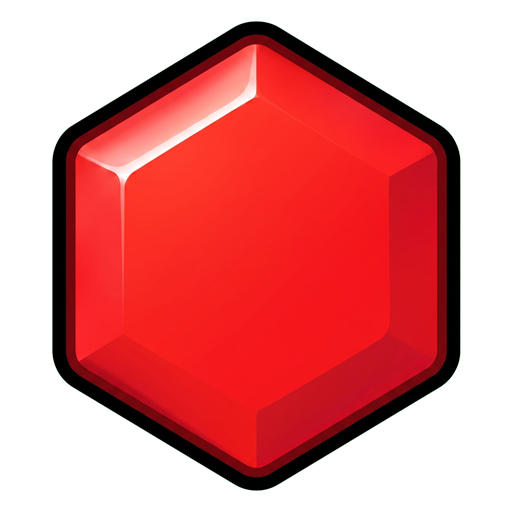
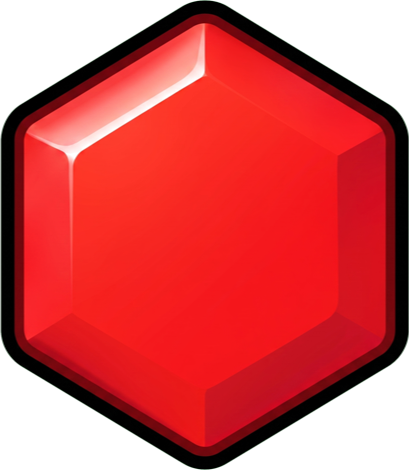
fix: 판을 헛간 우리 안으로, 타일 사이 빈틈 제거
판이 배경의 나무 우리 밖으로 삐져나가 있었고 타일 사이가 벌어져 있었다.
원인이 둘이라 따로 고친다.

**판 위치** — geom.ts는 아트가 오기 전 값(좌우 여백 각 10px, 폭 360)을 쓰고
있었다. 도착한 배경의 실제 플레이 영역은 중앙 컬럼 전체가 아니라 헛간 우리
안쪽이고, 직사각형도 아니다 — 아래로 갈수록 벌어지는 사다리꼴이다.
디자이너가 넘긴 꼭짓점(1920×1080 기준 LT/RT/LB/RB)을 논리 좌표로 환산해
PEN에 박고, 판·셀 크기·반사벽을 전부 여기서 파생시킨다.

엔진 반사벽이 수직선이라(shot.ts boardBounds) 판은 직사각형이어야 하므로
가장 좁은 **상단** 폭(279)에 맞춘다. 타일이 가장 빽빽한 자리가 상단이다.
격자는 11×16 그대로라 스테이지 JSON은 건드리지 않는다 — 셀만 31.3 → 24.1로
작아진다.

발사대 y는 격자에서 파생시키지 않고 상수로 뺀다. 파생값이라 판을 줄이자
붉은말이 화면 한가운데로 따라 올라왔다 — 말이 서는 자리는 배경이 정한다.

**타일 빈틈** — 아트가 512×512 정사각 캔버스에 409×470 육각이 놓인 형태였다.
makeTileView는 fitContain에 캔버스 크기를 넘기므로 육각이 칸의 79.9%만
채웠고, 칸 간격의 20%가 빈틈으로 보였다. 코드에 보정 상수를 넣는 대신
캔버스를 육각 바운딩 박스로 잘랐다(무손실, 파일도 10% 작아졌다).
여백 있는 파일이 다시 올라오면 tileArtSize.test.ts가 잡는다.

Claude-Session: https://claude.ai/code/session_01619WP9mPmfkjxBMrWH4Egn

diff --git a/src/ui/hex/geom.ts b/src/ui/hex/geom.ts
@@ -4,15 +4,48 @@ import { toPixel } from "../../engine/hex/coords";
 import type { Axial } from "../../engine/hex/types";
 import type { BoardGeom } from "../../engine/hex/shot";
 
-/** 최종 아트의 나무 프레임 안쪽까지의 여백(한쪽). 판은 이 안에서만 논다.
- *  프레임을 조금 넓히거나 좁히면 여기만 고치면 되고, 육각 크기는 자동으로 따라온다. */
-export const FIELD_INSET = 10;
+/** 중앙 콘텐츠 컬럼의 논리 크기. 정확히 9:16이다.
+ *  전체 화면은 16:9이고 좌우에 헛간 패널이 붙지만, 게임은 이 컬럼 안에서만 논다. */
+export const CENTER_W = 450;
+export const CENTER_H = 800;
+
+/**
+ * 헛간 우리 안쪽 — 실제로 플레이할 수 있는 흙바닥.
+ *
+ * **직사각형이 아니라 아래로 갈수록 벌어지는 사다리꼴이다.** 디자이너가 최종
+ * 1920×1080 화면 기준으로 넘긴 꼭짓점을 논리 좌표로 환산한 값이다:
+ *
+ *   LT(778,132) RT(1155,132) LB(745,753) RB(1178,753)
+ *
+ * 환산은 main.ts의 화면 맞춤 규칙을 따른다 — 논리 높이는 800 고정이고 콘텐츠
+ * 450 박스가 가로 중앙에 놓이므로, 1920×1080에서 배율 s=1.35, 컬럼 좌단은
+ * 화면 x=656.1이다. 즉 `논리 = (화면x − 656.1) / 1.35`.
+ *
+ * 이 값을 다시 계산해야 할 일이 생기면 화면 해상도가 아니라 **위 네 점**을 고친다.
+ */
+export const PEN = {
+  lt: { x: 90.3, y: 97.8 },
+  rt: { x: 369.6, y: 97.8 },
+  lb: { x: 65.9, y: 557.8 },
+  rb: { x: 386.6, y: 557.8 },
+} as const;
+
+/** 주어진 높이에서 우리의 좌우 안쪽 x. 사다리꼴 변을 선형 보간한다.
+ *  판 바깥으로 나가면 안 되는 것(붉은말·구출 연출·낙하 타일)이 이 값을 쓴다. */
+export function penEdges(y: number): { left: number; right: number } {
+  const t = (y - PEN.lt.y) / (PEN.lb.y - PEN.lt.y);
+  return {
+    left: PEN.lt.x + (PEN.lb.x - PEN.lt.x) * t,
+    right: PEN.rt.x + (PEN.rb.x - PEN.rt.x) * t,
+  };
+}
 
 /** 우측 HUD 레일(NEXT·부스터)이 차지하는 폭. 판은 이 자리를 침범하지 않는다 —
  *  겹치면 그 칸에 붙은 타일이 HUD 뒤로 숨으면서도 발사를 막고 합체에는 참여한다. */
 export const RAIL_W = 56;
 export const RAIL_MARGIN = 12;
-const RAIL_RESERVE = RAIL_W + RAIL_MARGIN * 2; // 80
+/** 레일 왼쪽 경계. uiLayout의 nextPanel 슬롯(x=382)과 같은 자리다. */
+export const RAIL_LEFT = CENTER_W - RAIL_W - RAIL_MARGIN;
 
 // 케이지가 반지름 1의 육각 덩어리(7칸)를 차지하고, 그 둘레(반지름 2, 12칸)를
 // 1칸짜리 타일이 감싼다. 그러려면 케이지 하나가 가로 3열·세로 3행을 먹으므로
@@ -20,30 +53,38 @@ const RAIL_RESERVE = RAIL_W + RAIL_MARGIN * 2; // 80
 export const COLS = 11;
 export const ROWS = 16;
 
-/** 중앙 콘텐츠 컬럼의 논리 크기. 정확히 9:16이다.
- *  전체 화면은 16:9이고 좌우에 헛간 패널이 붙지만, 게임은 이 컬럼 안에서만 논다. */
-export const CENTER_W = 450;
-export const CENTER_H = 800;
+/** 판 상단. 우리 상단(97.8) 바로 아래에 붙인다. */
+export const FIELD_TOP = 98;
 
-/** 판 폭 = 컬럼 − 좌측 여백 − 우측 레일 예약분 */
-const FIELD_W = CENTER_W - FIELD_INSET - RAIL_RESERVE; // 360
+/**
+ * 판의 가로 위치와 폭.
+ *
+ * **엔진의 반사벽은 수직선이다**(shot.ts `boardBounds`). 판을 사다리꼴로 만들 수
+ * 없으므로 직사각형을 사다리꼴 안에 넣어야 하고, 그러려면 **가장 좁은 상단 폭**에
+ * 맞춰야 한다 — 그리고 타일이 가장 빽빽하게 깔리는 자리가 바로 거기다.
+ * 우리 상단 폭이 279.3이므로 여기서 여유 2를 뺀 277을 쓰고, 상단 중심선에 맞춘다.
+ *
+ * 아래로 갈수록 우리가 벌어지므로 아래쪽 행은 저절로 여유가 생긴다.
+ */
+export const FIELD_W = 277;
+export const FIELD_X = (PEN.lt.x + PEN.rt.x) / 2 - FIELD_W / 2; // ≈ 91.45
 
 /** pointy-top 스태거 격자는 홀수 행이 반 칸 밀리므로 실제 폭이 COLS + 0.5칸이다.
- *  COLS로 나누면 마지막 홀수 행이 판 밖으로 넘치고 반사벽도 화면 밖에 놓인다. */
-export const CELL_W = FIELD_W / (COLS + 0.5); // ≈ 48.00
+ *  COLS로 나누면 마지막 홀수 행이 판 밖으로 넘치고 반사벽도 우리 밖에 놓인다. */
+export const CELL_W = FIELD_W / (COLS + 0.5); // ≈ 24.09
 
 /** 육각 반지름은 셀 폭에서 역산한다. 셀 폭 = √3 × 반지름. */
-export const HEX_SIZE = CELL_W / Math.sqrt(3); // ≈ 27.71
+export const HEX_SIZE = CELL_W / Math.sqrt(3); // ≈ 13.91
 
 /** 행 간격. pointy-top 육각은 1.5 × 반지름씩 내려간다. */
-export const ROW_H = HEX_SIZE * 1.5; // ≈ 41.57
+export const ROW_H = HEX_SIZE * 1.5; // ≈ 20.86
 
 export const BOARD: BoardGeom = { size: HEX_SIZE, cols: COLS, rows: ROWS };
 
-/** 셀 (0,0) 중심의 논리 좌표. 좌우 여백이 정확히 FIELD_INSET이 되도록 잡는다. */
+/** 셀 (0,0) 중심의 논리 좌표. 판 좌상단 모서리가 (FIELD_X, FIELD_TOP)에 오도록 잡는다. */
 export const ORIGIN = {
-  x: FIELD_INSET + CELL_W / 2,
-  y: 150, // 상단 HUD(스테이지 바) 아래
+  x: FIELD_X + CELL_W / 2,
+  y: FIELD_TOP + HEX_SIZE,
 };
 
 export function cellToScreen(a: Axial): { x: number; y: number } {
@@ -51,9 +92,16 @@ export function cellToScreen(a: Axial): { x: number; y: number } {
   return { x: ORIGIN.x + p.x, y: ORIGIN.y + p.y };
 }
 
-/** 발사 지점 — 판 하단 중앙. 붉은말이 여기서 타일을 던진다. */
+/** 발사대 y — 우리 아래쪽 문간. 붉은말이 여기 서서 위를 올려다본다.
+ *
+ *  **판 크기에서 파생시키지 않는다.** 예전엔 `ORIGIN.y + ROW_H × ROWS + 30`이라
+ *  격자를 줄이자 말이 화면 한가운데로 따라 올라왔다. 말이 서 있는 자리는 배경
+ *  아트가 정하는 것이지 격자가 정하는 것이 아니다. */
+export const LAUNCH_Y = 600;
+
+/** 발사 지점 — 판 하단 중앙. 판 중심과 같은 x라야 조준이 좌우 대칭이 된다. */
 export function launchOrigin(): { x: number; y: number } {
-  return { x: CENTER_W / 2, y: ORIGIN.y + ROW_H * ROWS + 30 };
+  return { x: FIELD_X + FIELD_W / 2, y: LAUNCH_Y };
 }
 
 /** 발사 지점을 엔진 좌표계(ORIGIN 기준)로 옮긴다 — simulateShot이 쓰는 계다. */

diff --git a/tests/hex/geom.test.ts b/tests/hex/geom.test.ts
@@ -1,8 +1,8 @@
 // tests/hex/geom.test.ts — 보드 배치 상수 (Pixi 비의존 부분만)
 import { describe, it, expect } from "vitest";
 import {
-  HEX_SIZE, CELL_W, COLS, ROWS, BOARD, ORIGIN, FIELD_INSET, CENTER_W, CENTER_H,
-  RAIL_W, RAIL_MARGIN,
+  HEX_SIZE, CELL_W, ROW_H, COLS, ROWS, BOARD, ORIGIN, CENTER_H,
+  RAIL_LEFT, PEN, FIELD_X, FIELD_W, FIELD_TOP, penEdges,
   cellToScreen, launchOrigin, launchOriginLocal,
 } from "../../src/ui/hex/geom";
 import { fromPixel } from "../../src/engine/hex/coords";
@@ -22,30 +22,45 @@ describe("보드 상수", () => {
   });
 });
 
-describe("나무 프레임 안쪽에 들어간다", () => {
-  it("보드 전체 폭이 프레임 안쪽 폭을 넘지 않는다", () => {
-    const fieldW = CENTER_W - FIELD_INSET * 2;
-    expect(COLS * CELL_W).toBeLessThanOrEqual(fieldW + 0.001);
+describe("헛간 우리(사다리꼴) 안쪽에 들어간다", () => {
+  // 우리는 아래로 갈수록 벌어진다. 엔진 반사벽이 수직선이라 판은 직사각형이어야
+  // 하므로, 가장 좁은 **상단** 폭이 판 폭의 상한이다.
+
+  it("우리는 아래로 갈수록 넓어진다 — 상단이 가장 좁다", () => {
+    const top = penEdges(PEN.lt.y);
+    const bottom = penEdges(PEN.lb.y);
+    expect(bottom.right - bottom.left).toBeGreaterThan(top.right - top.left);
   });
 
-  it("보드 왼쪽 끝이 프레임 안쪽보다 안에 있다", () => {
+  it("판 폭이 우리 상단 폭을 넘지 않는다", () => {
+    const top = penEdges(FIELD_TOP);
+    expect(FIELD_W).toBeLessThanOrEqual(top.right - top.left);
+  });
+
+  it("판의 모든 행이 그 높이의 우리 안에 있다 — 스태거로 반 칸 밀리는 홀수 행 포함", () => {
+    for (let r = 0; r < ROWS; r += 1) {
+      const y = cellToScreen({ q: 0, r }).y;
+      const { left, right } = penEdges(y);
+      expect(FIELD_X).toBeGreaterThanOrEqual(left);
+      expect(FIELD_X + FIELD_W).toBeLessThanOrEqual(right);
+    }
+  });
+
+  it("판 좌우 끝이 FIELD_X ~ FIELD_X+FIELD_W와 맞는다", () => {
+    // 짝수 행 왼쪽 끝이 판 좌단, 홀수 행 오른쪽 끝이 판 우단이다(스태거 반 칸).
     const left = cellToScreen({ q: 0, r: 0 }).x - CELL_W / 2;
-    expect(left).toBeGreaterThanOrEqual(FIELD_INSET - 0.001);
+    const right = cellToScreen({ q: COLS - 1, r: 1 }).x + CELL_W / 2;
+    expect(left).toBeCloseTo(FIELD_X, 5);
+    expect(right).toBeCloseTo(FIELD_X + FIELD_W, 5);
   });
 
-  it("보드 오른쪽 끝이 프레임 안쪽보다 안에 있다", () => {
-    const right = cellToScreen({ q: COLS - 1, r: 0 }).x + CELL_W / 2;
-    expect(right).toBeLessThanOrEqual(CENTER_W - FIELD_INSET + 0.001);
+  it("판이 우측 HUD 레일을 침범하지 않는다", () => {
+    const right = cellToScreen({ q: COLS - 1, r: 1 }).x + CELL_W / 2;
+    expect(right).toBeLessThanOrEqual(RAIL_LEFT);
   });
 
-  it("좌측 여백은 FIELD_INSET, 우측 여백은 HUD 레일 예약분 + 스태거 반 칸만큼 — 더 이상 대칭이 아니다", () => {
-    // 우측에 HUD 레일(NEXT·부스터)을 예약하면서 판이 좌우 대칭으로 놓이지 않게 됐다.
-    // 짝수 행(스태거 없음)은 홀수 행이 밀고 들어올 반 칸 자리를 아직 안 쓰므로,
-    // 그만큼(CELL_W/2)이 레일 예약분(RAIL_W + 2*RAIL_MARGIN) 위에 더 남는다.
-    const left = cellToScreen({ q: 0, r: 0 }).x - CELL_W / 2;
-    const right = CENTER_W - (cellToScreen({ q: COLS - 1, r: 0 }).x + CELL_W / 2);
-    expect(left).toBeCloseTo(FIELD_INSET, 5);
-    expect(right).toBeCloseTo(RAIL_W + RAIL_MARGIN * 2 + CELL_W / 2, 5);
+  it("판 상단이 우리 상단보다 아래에 있다", () => {
+    expect(FIELD_TOP).toBeGreaterThanOrEqual(PEN.lt.y);
   });
 });
 
@@ -66,8 +81,14 @@ describe("launchOrigin", () => {
     expect(launchOrigin().y).toBeGreaterThan(cellToScreen({ q: 0, r: ROWS - 1 }).y);
   });
 
-  it("발사 지점이 가로 중앙이다", () => {
-    expect(launchOrigin().x).toBeCloseTo(CENTER_W / 2, 5);
+  it("발사 지점이 판 가로 중앙이다 — 컬럼 중앙이 아니라 판 중앙이라야 조준이 대칭이다", () => {
+    expect(launchOrigin().x).toBeCloseTo(FIELD_X + FIELD_W / 2, 5);
+  });
+
+  it("발사대 높이는 격자 크기에서 파생되지 않는다", () => {
+    // 예전엔 ORIGIN.y + ROW_H × ROWS + 30이었다. 판을 줄이자 붉은말이 화면
+    // 한가운데로 따라 올라왔다 — 말이 서는 자리는 배경 아트가 정한다.
+    expect(launchOrigin().y).not.toBeCloseTo(ORIGIN.y + ROW_H * ROWS + 30, 1);
   });
 
   it("발사 지점이 화면 안에 있다", () => {
@@ -95,20 +116,5 @@ describe("launchOriginLocal", () => {
     const col = a.q + Math.floor(a.r / 2);
     expect(col).toBeGreaterThanOrEqual(0);
     expect(col).toBeLessThan(COLS);
-  });
-});
-
-describe("홀수 행 스태거 — 반 칸 밀림", () => {
-  it("홀수 행 마지막 셀도 컬럼 안에 들어온다", () => {
-    // pointy-top 스태거에서 홀수 행은 반 칸 오른쪽으로 밀린다.
-    // 짝수 행만 검사하면 이 넘침을 놓친다.
-    const right = cellToScreen({ q: COLS - 1, r: 1 }).x + CELL_W / 2;
-    expect(right).toBeLessThanOrEqual(CENTER_W - RAIL_MARGIN - RAIL_W + 0.001);
-  });
-
-  it("판이 우측 HUD 레일을 침범하지 않는다", () => {
-    const boardRight = cellToScreen({ q: COLS - 1, r: 1 }).x + CELL_W / 2;
-    const railLeft = CENTER_W - RAIL_MARGIN - RAIL_W;
-    expect(boardRight).toBeLessThanOrEqual(railLeft + 0.001);
   });
 });

diff --git a/tests/hex/tileArtSize.test.ts b/tests/hex/tileArtSize.test.ts
@@ -1,0 +1,54 @@
+// tests/hex/tileArtSize.test.ts — 타일 아트 캔버스가 육각에 딱 맞는지.
+//
+// 처음 받은 아트는 512×512 정사각 캔버스 한가운데에 409×470 육각이 놓여 있었다.
+// makeTileView는 fitContain에 **캔버스 크기**를 넘기므로 배율이 (칸폭 ÷ 512)가 되고,
+// 육각은 칸의 79.9%만 채웠다 — 칸 간격의 20%가 빈틈으로 보였다.
+//
+// 고친 방법은 코드가 아니라 아트다. 캔버스를 육각 바운딩 박스로 잘라 여백을 없앴다.
+// 그러면 fitContain이 그대로 맞고 렌더 코드에 보정 상수가 없어도 된다.
+// 대신 디자이너가 여백 있는 파일을 다시 올리면 빈틈이 조용히 돌아온다 — 여기서 잡는다.
+import { describe, it, expect } from "vitest";
+import { readFileSync, existsSync } from "node:fs";
+import { resolve } from "node:path";
+import { hexAssetPaths } from "../../src/data/hexAssets";
+
+/** WebP 헤더에서 가로·세로만 읽는다. 디코딩은 하지 않는다. */
+function webpSize(buf: Buffer): { w: number; h: number } {
+  if (buf.toString("ascii", 0, 4) !== "RIFF" || buf.toString("ascii", 8, 12) !== "WEBP") {
+    throw new Error("WebP가 아니다");
+  }
+  const kind = buf.toString("ascii", 12, 16);
+  if (kind === "VP8X") {
+    return { w: buf.readUIntLE(24, 3) + 1, h: buf.readUIntLE(27, 3) + 1 };
+  }
+  if (kind === "VP8L") {
+    const b = buf.readUInt32LE(21); // 시그니처(0x2f) 다음 4바이트에 14비트씩 들어 있다
+    return { w: (b & 0x3fff) + 1, h: ((b >> 14) & 0x3fff) + 1 };
+  }
+  if (kind === "VP8 ") {
+    return { w: buf.readUInt16LE(26) & 0x3fff, h: buf.readUInt16LE(28) & 0x3fff };
+  }
+  throw new Error(`모르는 WebP 종류: ${kind}`);
+}
+
+/** pointy-top 육각의 가로:세로. ART_SPEC §2의 규격이다. */
+const RATIO = Math.sqrt(3) / 2;
+
+const files = Object.values(hexAssetPaths.tiles)
+  .filter((p): p is string => typeof p === "string" && p.length > 0)
+  .map((p) => ({ p, abs: resolve(process.cwd(), "public", p.replace(/^\//, "")) }))
+  .filter((f) => existsSync(f.abs));
+
+describe("타일 아트 캔버스", () => {
+  it("적어도 한 장은 도착해 있다 — 전부 없으면 아래 검사가 조용히 통과한다", () => {
+    expect(files.length).toBeGreaterThan(0);
+  });
+
+  for (const f of files) {
+    it(`${f.p} 캔버스가 √3:2다 — 투명 여백이 있으면 칸 사이가 벌어진다`, () => {
+      const { w, h } = webpSize(readFileSync(f.abs));
+      // 512×512 같은 정사각 캔버스는 1.0이라 여유 0.02로 확실히 걸린다.
+      expect(w / h).toBeCloseTo(RATIO, 2);
+    });
+  }
+});

diff --git a/src/ui/hex/tileArt.ts b/src/ui/hex/tileArt.ts
@@ -27,11 +27,17 @@ export function hexPoints(size: number): number[] {
   return pts;
 }
 
-/** 색 육각 플레이스홀더. 안쪽에 밝은 테두리를 넣어 격자가 읽히게 한다. */
+/** 색 육각 플레이스홀더. 안쪽에 밝은 테두리를 넣어 격자가 읽히게 한다.
+ *  안쪽 여백은 **비율로** 잡는다 — 예전엔 `HEX_SIZE - 1`, `HEX_SIZE - 4`라는 절대값이라
+ *  판을 우리 안으로 줄여 육각이 18→14로 작아지자 테두리만 상대적으로 굵어졌다. */
 export function drawTileFallback(color: number): Graphics {
   const g = new Graphics();
-  g.poly(hexPoints(HEX_SIZE - 1)).fill(color);
-  g.poly(hexPoints(HEX_SIZE - 4)).stroke({ width: 2, color: 0xffffff, alpha: 0.25 });
+  g.poly(hexPoints(HEX_SIZE * 0.945)).fill(color);
+  g.poly(hexPoints(HEX_SIZE * 0.78)).stroke({
+    width: HEX_SIZE * 0.11,
+    color: 0xffffff,
+    alpha: 0.25,
+  });
   return g;
 }
 
@@ -40,7 +46,11 @@ export function makeTileView(tier: Tier, tex: Texture | null): Container {
   if (tex) {
     const s = new Sprite(tex);
     s.anchor.set(0.5);
-    // 원본 비율 유지 — 아트가 √3:2가 아니어도 찌그러지지 않고 칸 안에 들어간다
+    // 원본 비율 유지 — 아트가 √3:2가 아니어도 찌그러지지 않고 칸 안에 들어간다.
+    //
+    // **fitContain은 캔버스를 맞춘다.** 투명 여백이 있으면 그만큼 육각이 작게 그려져
+    // 칸 사이가 벌어진다(처음 받은 512×512 아트가 그랬다 — 육각이 409px이라 79.9%).
+    // 그래서 캔버스 = 육각 바운딩 박스가 아트 규격이고, tileArtSize.test.ts가 지킨다.
     fitContain(s, Math.sqrt(3) * HEX_SIZE, 2 * HEX_SIZE);
     return s;
   }

diff --git a/docs/ART_SPEC.md b/docs/ART_SPEC.md
@@ -63,13 +63,22 @@
 | 항목 | 값 |
 |---|---|
 | 육각형 방향 | **pointy-top** (위아래가 뾰족, 좌우가 평평한 수직 변) |
-| **가로:세로 비율** | **√3 : 2 ≈ 0.866 : 1** ← 이것만 지키면 된다 |
+| **가로:세로 비율** | **√3 : 2 ≈ 0.866 : 1** |
+| **캔버스 여백** | **0 — 캔버스가 곧 육각의 바운딩 박스다** |
 | 제작 권장 크기 | **312 × 360px** (넉넉하게. 게임이 알아서 축소한다) |
 | 형식 | PNG 알파 (WebP 자동 변환됨) |
 
-> **화면상 크기는 신경 쓰지 않아도 된다.** 나무 프레임 안쪽 폭을 7로 나눠
-> 코드가 자동으로 계산한다(현재 셀 폭 약 45px). 프레임 두께가 바뀌면 타일 크기도
-> 따라 바뀌므로, **아트는 비율만 맞추고 크게 그리면 된다.**
+> **화면상 크기는 신경 쓰지 않아도 된다.** 우리 안쪽 폭을 11.5로 나눠 코드가
+> 자동으로 계산한다(현재 셀 폭 약 24px). 우리 폭이 바뀌면 타일 크기도 따라
+> 바뀌므로, **아트는 비율만 맞추고 크게 그리면 된다.**
+
+> ⚠ **캔버스 여백은 그냥 낭비가 아니라 버그가 된다.** 코드는 캔버스를 한 칸에
+> 맞추므로(`fitContain`), 여백이 있으면 그 비율만큼 육각이 작게 그려져 **칸 사이가
+> 벌어진다.** 처음 받은 아트가 512×512 정사각 캔버스에 409×470 육각이라
+> 육각이 칸의 79.9%만 채웠고, 판 전체에 20%짜리 틈이 보였다.
+> 지금 파일은 바운딩 박스(409×470)로 잘라 두었다.
+> `tests/hex/tileArtSize.test.ts`가 이 규격을 검사하므로, 여백 있는 파일을
+> 올리면 `npm test`가 실패한다.
 
 > 타일은 서로 **맞물려 격자를 이룬다.** 육각형 외곽선이 인접 타일과 딱 붙었을 때
 > 틈이나 겹침이 없어야 한다. 그림자·하이라이트는 육각 경계 **안쪽**에 둘 것.
@@ -186,10 +195,33 @@
 | 타이틀 | 로고 + 붉은말 |
 | 로딩 | 진행률 게이지가 얹힌다 |
 
-**중앙 컬럼 전체가 판이다.** 나무 프레임은 좌우 패널로 옮겨갔으므로, 발사체가 튕기는
-벽은 중앙 컬럼의 좌우 끝이다. 코드는 중앙 컬럼 안쪽 여백을 각 **10px**로 잡고 있다
-(`src/ui/hex/geom.ts`의 `FIELD_INSET`, 논리폭 450 기준). 시안과 다르면 그 숫자 하나만
-고치면 타일 크기가 자동으로 따라온다 — **아트를 다시 그릴 필요는 없다.**
+### 플레이 영역은 사다리꼴이다 (2026-09-05 확정)
+
+도착한 `bg-ingame-panel`은 중앙 컬럼 전체가 판이 아니다. 실제로 놀 수 있는 곳은
+**헛간 우리 안쪽 흙바닥**이고, 그 모양은 직사각형이 아니라 **아래로 갈수록 벌어지는
+사다리꼴**이다. 디자이너가 최종 1920×1080 화면 기준으로 넘긴 꼭짓점:
+
+| 점 | 화면 1920×1080 | 논리 450×800 |
+|---|---|---|
+| LT | (778, 132) | (90.3, 97.8) |
+| RT | (1155, 132) | (369.6, 97.8) |
+| LB | (745, 753) | (65.9, 557.8) |
+| RB | (1178, 753) | (386.6, 557.8) |
+
+환산은 `src/main.ts`의 화면 맞춤 규칙을 따른다 — 논리 높이 800 고정, 콘텐츠 450 박스가
+가로 중앙. 1920×1080에서 배율 1.35, 컬럼 좌단이 화면 x=656.1이므로
+`논리 = (화면x − 656.1) / 1.35`다.
+
+이 네 점이 `src/ui/hex/geom.ts`의 `PEN`에 그대로 들어 있다. **배경 아트가 바뀌면
+이 네 점만 고친다** — 타일 크기·판 위치·반사벽이 전부 여기서 파생된다.
+
+**판은 여전히 직사각형이다.** 엔진의 반사벽이 수직선이라(`engine/hex/shot.ts`의
+`boardBounds`) 사다리꼴 판을 만들 수 없다. 그래서 **가장 좁은 상단 폭(279)** 에 맞춘
+직사각형을 우리 안에 넣는다 — 타일이 가장 빽빽한 자리가 상단이라 거기가 기준이 된다.
+아래쪽 행은 우리가 벌어지는 만큼 저절로 여유가 생긴다.
+
+> 붉은말·구출 연출·낙하 타일처럼 **판 밖으로 나갈 수 있는 것**은 이 사다리꼴을
+> 벗어날 수 있다. `penEdges(y)`가 그 높이의 좌우 한계를 돌려준다.
 
 ### 파일을 놓을 위치
 
